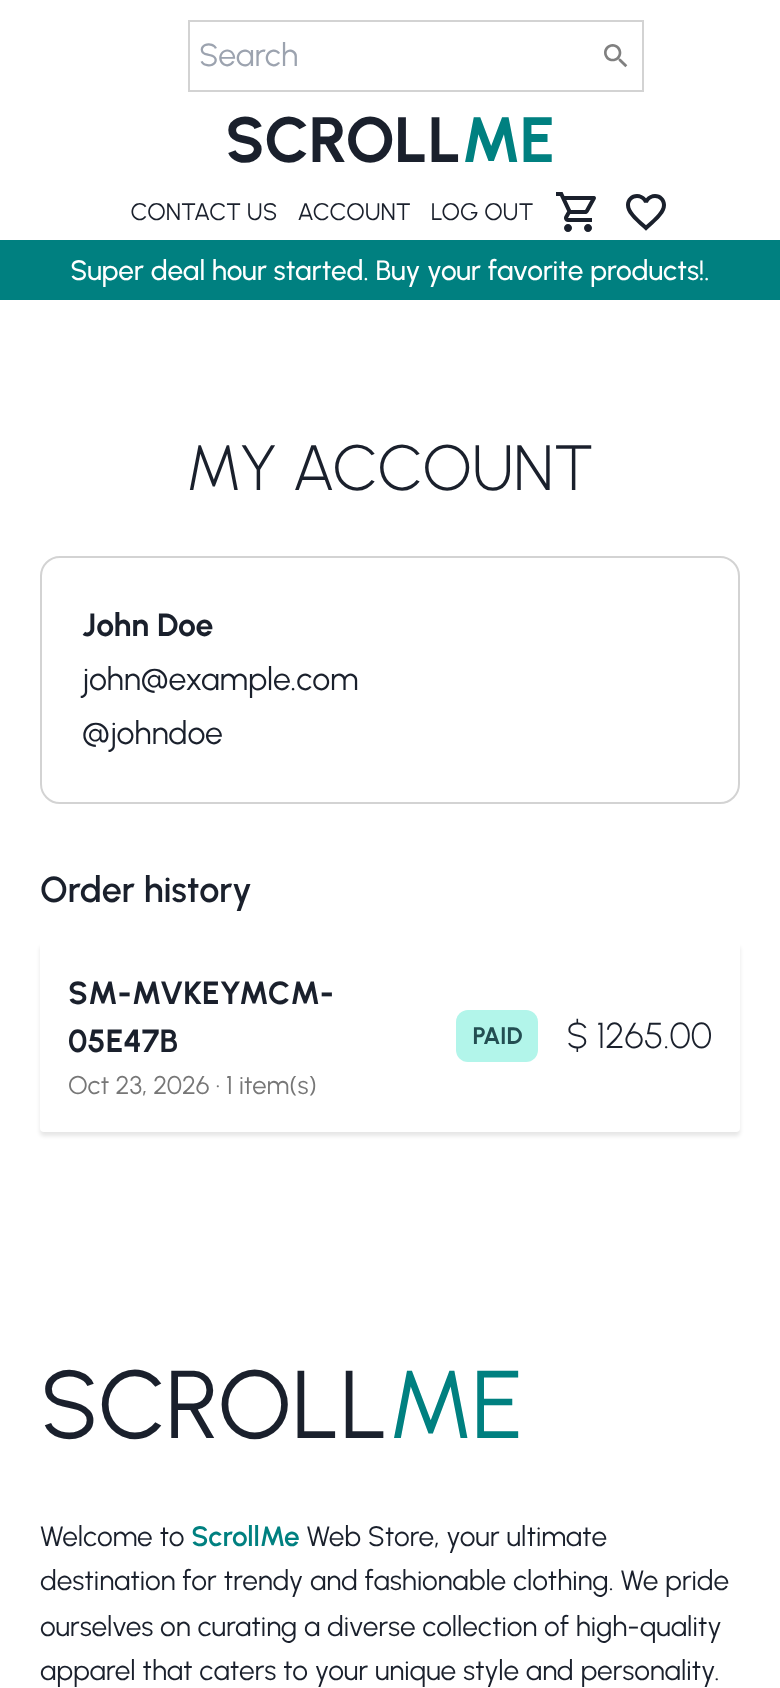
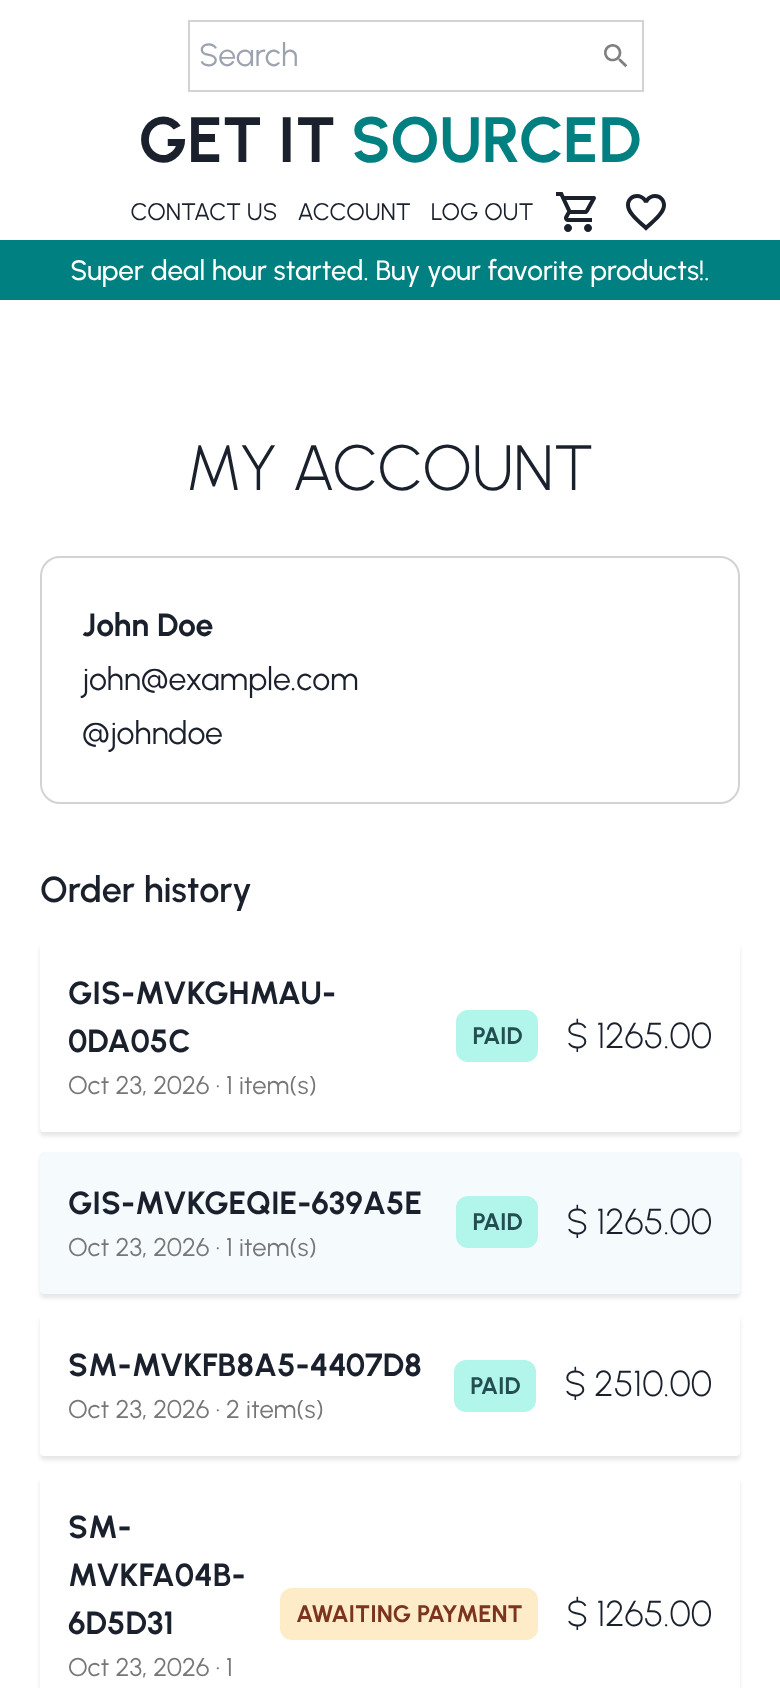
feat(scrollme): rebrand the storefront as Get It Sourced
- Two-tone wordmark GET IT + teal SOURCED (stays on one line and scales
  down on narrow phones), page title, description and web manifest.
- Footer, FAQ (also corrects order-tracking, payment-method and returns
  answers that pointed to features that do not exist), checkout note,
  password-reset email subject and default sender.
- New order numbers use the GIS- prefix.
- README, API README, deployment guide, release report and screenshots.
Internal identifiers (folder, database name, CI) keep the scrollme name.

Claude-Session: https://claude.ai/code/session_01MiXNvcNMLDu5eBSVA8g4Bc

diff --git a/scrollme/src/components/FAQ.jsx b/scrollme/src/components/FAQ.jsx
@@ -4,24 +4,24 @@ import styled from 'styled-components';
 // FAQ Data Example
 const faqData = [
   {
-    question: 'What is ScrollMe?',
+    question: 'What is Get It Sourced?',
     answer:
-      'ScrollMe is a dynamic e-commerce platform offering a wide range of products to cater to your shopping needs, all from the comfort of your home.',
+      'Get It Sourced is an online store where we source fashion, footwear and accessories for you, so you can shop a wide range of products from the comfort of your home.',
   },
   {
     question: 'How do I track my order?',
     answer:
-      "You can track your order by logging into your account and visiting the 'My Orders' section. There, you'll find real-time updates on your order status.",
+      "Sign in and open 'Account'. Your order history lists every order; open one to see its status, tracking number and full history.",
   },
   {
     question: 'What payment methods are accepted?',
     answer:
-      'We accept various payment methods, including credit/debit cards, PayPal, and popular UPI services for seamless and secure transactions.',
+      'We accept credit and debit cards (Visa, Mastercard, American Express and more), Apple Pay, Google Pay, PayPal and Klarna. Payments are processed securely by our payment provider; we never store your card details.',
   },
   {
     question: 'What is your return policy?',
     answer:
-      "Our return policy allows you to return items within 30 days of delivery, provided they are in original condition. Visit the 'Returns & Refunds' section for more details.",
+      'Our return policy allows you to return items within 30 days of delivery, provided they are in original condition. Contact us with your order number to arrange a return.',
   },
 ];
 

diff --git a/scrollme/public/index.html b/scrollme/public/index.html
@@ -5,7 +5,7 @@
   <meta charset="utf-8" />
   <meta name="viewport" content="width=device-width, initial-scale=1" />
   <meta name="theme-color" content="#000000" />
-  <meta name="description" content="ScrollMe web store — trendy and fashionable clothing, footwear and accessories." />
+  <meta name="description" content="Get It Sourced — sourced fashion, footwear and accessories, delivered to your door." />
   <link rel="preconnect" href="https://fonts.googleapis.com">
   <link rel="preconnect" href="https://fonts.gstatic.com" crossorigin>
   <link
@@ -15,7 +15,7 @@
   <link
     href="https://fonts.googleapis.com/css2?family=Urbanist:ital,wght@0,100;0,200;0,300;0,400;0,500;0,600;0,700;0,800;0,900;1,100;1,200;1,300;1,400;1,500;1,600;1,700;1,800;1,900&display=swap"
     rel="stylesheet">
-  <title>SCROLLME | E-Commerce Web Store</title>
+  <title>GET IT SOURCED | Online Store</title>
   <style>
     * {
       margin: 0;

diff --git a/scrollme/backend/api/services/orders.js b/scrollme/backend/api/services/orders.js
@@ -9,7 +9,8 @@ const { getProvider } = require('./payments');
 const { badRequest, conflict, HttpError } = require('../utils/httpError');
 const logger = require('../utils/logger');
 
-const newOrderNumber = () => `SM-${Date.now().toString(36).toUpperCase()}-${crypto.randomBytes(3).toString('hex').toUpperCase()}`;
+// Order numbers look like GIS-MH3K2Q1A-4F2C9B (Get It Sourced).
+const newOrderNumber = () => `GIS-${Date.now().toString(36).toUpperCase()}-${crypto.randomBytes(3).toString('hex').toUpperCase()}`;
 
 // Creates an order from the shopper's server-side cart, reserves its stock and
 // opens a payment session. Nothing the client sends is used for prices.

diff --git a/scrollme/e2e/tests/checkout.spec.js b/scrollme/e2e/tests/checkout.spec.js
@@ -74,7 +74,7 @@ test.describe('cart and checkout', () => {
     await expect(page).toHaveURL(/\/orders\/.+checkout=success/);
     await expect(page.getByText('Your payment was received')).toBeVisible();
     await expect(page.getByTestId('order-status')).toHaveText('Paid');
-    const orderNumber = (await page.getByRole('heading', { name: /^ORDER SM-/ }).textContent()).replace('ORDER ', '').trim();
+    const orderNumber = (await page.getByRole('heading', { name: /^ORDER GIS-/ }).textContent()).replace('ORDER ', '').trim();
 
     await page.goto('/account');
     await expect(page.getByText(orderNumber)).toBeVisible();

diff --git a/scrollme/e2e/tests/admin.spec.js b/scrollme/e2e/tests/admin.spec.js
@@ -29,7 +29,7 @@ test.describe('administration', () => {
     await customer.getByLabel('Name on card').fill('John Doe');
     await customer.getByRole('button', { name: /^Pay / }).click();
     await expect(customer.getByTestId('order-status')).toHaveText('Paid');
-    const orderNumber = (await customer.getByRole('heading', { name: /^ORDER SM-/ }).textContent()).replace('ORDER ', '').trim();
+    const orderNumber = (await customer.getByRole('heading', { name: /^ORDER GIS-/ }).textContent()).replace('ORDER ', '').trim();
 
     // The admin ships it with a tracking number.
     await login(page, ADMIN);

diff --git a/scrollme/src/components/Footer.jsx b/scrollme/src/components/Footer.jsx
@@ -95,7 +95,7 @@ const Footer = () => {
       <Left>
         <Logo size={'3rem'} /> {/* Using Logo component directly */}
         <Desc>
-          Welcome to <span style={{ color: 'teal', fontWeight: 600 }}>ScrollMe</span> Web Store, your ultimate destination for trendy and
+          Welcome to <span style={{ color: 'teal', fontWeight: 600 }}>Get It Sourced</span>, your ultimate destination for trendy and
           fashionable clothing. We pride ourselves on curating a diverse collection of high-quality apparel that caters to your unique style
           and personality.
         </Desc>

diff --git a/scrollme/src/components/Logo.jsx b/scrollme/src/components/Logo.jsx
@@ -1,15 +1,17 @@
 import { Link } from 'react-router-dom';
 import styled from 'styled-components';
 
+// The wordmark stays on one line and shrinks to fit narrow phones.
 const LogoWrapper = styled.h1`
-  font-size: ${({ size }) => size || '2rem'};
+  font-size: ${({ size }) => `min(${size || '2rem'}, 8.5vw)`};
+  white-space: nowrap;
 `;
 
 const Logo = ({ size }) => {
   return (
     <LogoWrapper size={size}>
       <Link to='/'>
-        SCROLL<span style={{ color: 'teal' }}>ME</span>
+        GET IT <span style={{ color: 'teal' }}>SOURCED</span>
       </Link>
     </LogoWrapper>
   );

diff --git a/scrollme/e2e/tests/catalogue.spec.js b/scrollme/e2e/tests/catalogue.spec.js
@@ -2,7 +2,7 @@ const { test, expect } = require('@playwright/test');
 const { findProduct } = require('./helpers');
 
 test.describe('catalogue', () => {
-  test('home page shows the original ScrollMe sections and real products @phone', async ({ page }) => {
+  test('home page shows the original storefront sections and real products @phone', async ({ page }) => {
     await page.goto('/');
     await expect(page.getByText('Super deal hour started')).toBeVisible();
     await expect(page.getByRole('heading', { name: 'SUMMER SALE' })).toBeVisible();

diff --git a/scrollme/src/pages/Checkout.jsx b/scrollme/src/pages/Checkout.jsx
@@ -201,7 +201,7 @@ const Checkout = () => {
               </ViewAll>
             </PaymentCard>
             <SecureNote>
-              <FaLock size={11} /> Card details are entered on our payment provider&apos;s secure page and never stored by ScrollMe.
+              <FaLock size={11} /> Card details are entered on our payment provider&apos;s secure page and never stored by Get It Sourced.
             </SecureNote>
 
             <SectionTitle>Items ({cart.totalQuantity})</SectionTitle>

diff --git a/scrollme/backend/api/controllers/authController.js b/scrollme/backend/api/controllers/authController.js
@@ -93,7 +93,7 @@ exports.forgotPassword = async (req, res) => {
     await mailer
       .sendMail({
         to: user.email,
-        subject: 'Reset your ScrollMe password',
+        subject: 'Reset your Get It Sourced password',
         text: `Hi ${user.firstName},\n\nUse this link within 30 minutes to choose a new password:\n${link}\n\nIf you did not ask for this, you can ignore this email.`,
       })
       .catch((err) => logger.error('password_reset_mail_failed', { err }));

diff --git a/scrollme/backend/api/config/env.js b/scrollme/backend/api/config/env.js
@@ -40,7 +40,7 @@ const schema = z.object({
   PAYMENT_METHODS: z.string().default('apple_pay,card,paypal,klarna,google_pay'),
   FIREBASE_PROJECT_ID: z.string().optional(),
   SMTP_URL: z.string().optional(),
-  MAIL_FROM: z.string().default('ScrollMe <no-reply@scrollme.local>'),
+  MAIL_FROM: z.string().default('Get It Sourced <no-reply@getitsourced.com>'),
   LOG_LEVEL: z.enum(['debug', 'info', 'warn', 'error', 'silent']).default('info'),
 });
 

diff --git a/scrollme/backend/__tests__/checkout.test.js b/scrollme/backend/__tests__/checkout.test.js
@@ -95,7 +95,7 @@ describe('checkout (mock provider)', () => {
 
     const history = await agent.get('/api/orders');
     expect(history.body.orders).toHaveLength(1);
-    expect(history.body.orders[0].orderNumber).toMatch(/^SM-/);
+    expect(history.body.orders[0].orderNumber).toMatch(/^GIS-[A-Z0-9]+-[A-F0-9]{6}$/);
   });
 
   it('rejects checkout when stock ran out and leaves no partial reservation', async () => {
